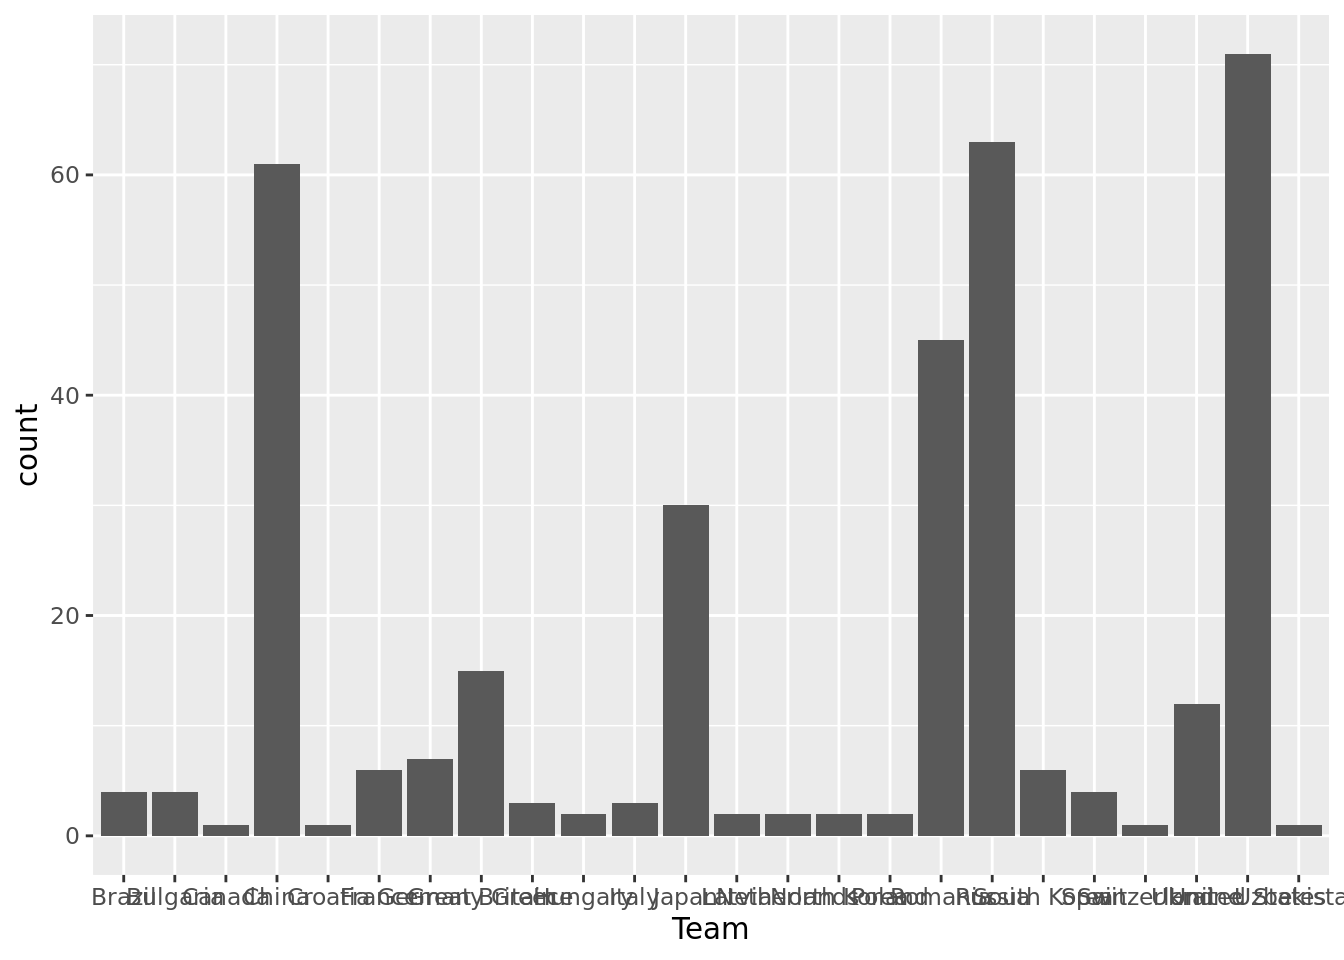
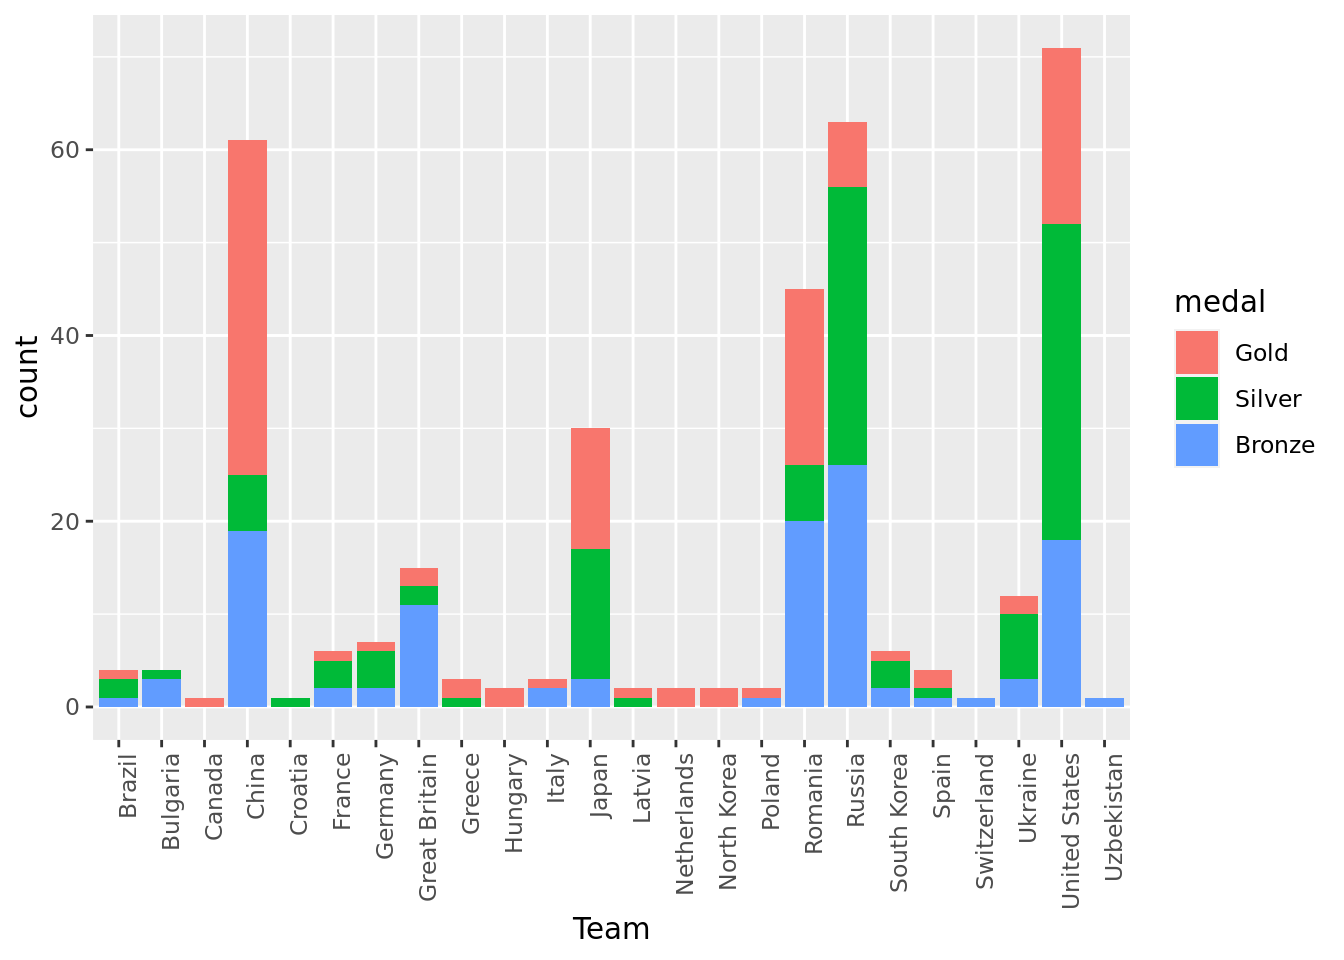
done for the night i think

diff --git a/docs/index.html b/docs/index.html
@@ -255,10 +255,99 @@ $ Medal  &lt;chr&gt; NA, NA, NA, "Gold", NA, NA, NA, NA, NA, NA, NA, NA, NA, NA,
 <div class="cell">
 <div class="sourceCode cell-code" id="cb10"><pre class="sourceCode r code-with-copy"><code class="sourceCode r"><span id="cb10-1"><a href="#cb10-1" aria-hidden="true" tabindex="-1"></a>olympics_new <span class="sc">|&gt;</span> </span>
 <span id="cb10-2"><a href="#cb10-2" aria-hidden="true" tabindex="-1"></a>  <span class="fu">filter</span>(Sport <span class="sc">==</span> <span class="st">"Gymnastics"</span>, medalyesno <span class="sc">==</span> <span class="st">"yes"</span>, Year <span class="sc">&gt;</span> <span class="dv">1999</span>) <span class="sc">|&gt;</span></span>
-<span id="cb10-3"><a href="#cb10-3" aria-hidden="true" tabindex="-1"></a>  <span class="fu">ggplot</span>(<span class="fu">aes</span>(<span class="at">x =</span> Team)) <span class="sc">+</span> </span>
-<span id="cb10-4"><a href="#cb10-4" aria-hidden="true" tabindex="-1"></a>    <span class="fu">geom_bar</span>()</span></code><button title="Copy to Clipboard" class="code-copy-button"><i class="bi"></i></button></pre></div>
+<span id="cb10-3"><a href="#cb10-3" aria-hidden="true" tabindex="-1"></a>  <span class="fu">mutate</span>(<span class="at">medal =</span> <span class="fu">as.factor</span>(Medal), <span class="at">medal =</span> <span class="fu">fct_relevel</span>(Medal, <span class="st">"Gold"</span>, <span class="st">"Silver"</span>, <span class="st">"Bronze"</span>)) <span class="sc">|&gt;</span></span>
+<span id="cb10-4"><a href="#cb10-4" aria-hidden="true" tabindex="-1"></a>  <span class="fu">ggplot</span>(<span class="fu">aes</span>(<span class="at">x =</span> Team, <span class="at">fill =</span> medal)) <span class="sc">+</span> </span>
+<span id="cb10-5"><a href="#cb10-5" aria-hidden="true" tabindex="-1"></a>    <span class="fu">geom_bar</span>() <span class="sc">+</span></span>
+<span id="cb10-6"><a href="#cb10-6" aria-hidden="true" tabindex="-1"></a>  <span class="fu">theme</span>(<span class="at">axis.text.x =</span> <span class="fu">element_text</span>(<span class="at">angle =</span> <span class="dv">90</span>, <span class="at">hjust =</span> <span class="dv">1</span>)) </span></code><button title="Copy to Clipboard" class="code-copy-button"><i class="bi"></i></button></pre></div>
 <div class="cell-output-display">
 <p><img src="index_files/figure-html/unnamed-chunk-3-1.png" class="img-fluid" width="672"></p>
+</div>
+<div class="sourceCode cell-code" id="cb11"><pre class="sourceCode r code-with-copy"><code class="sourceCode r"><span id="cb11-1"><a href="#cb11-1" aria-hidden="true" tabindex="-1"></a>olympics_new <span class="sc">|&gt;</span> </span>
+<span id="cb11-2"><a href="#cb11-2" aria-hidden="true" tabindex="-1"></a>  <span class="fu">filter</span>(Sport <span class="sc">==</span> <span class="st">"Gymnastics"</span>, Medal <span class="sc">==</span> <span class="st">"Gold"</span>, Year <span class="sc">&gt;</span> <span class="dv">1999</span>) <span class="sc">|&gt;</span></span>
+<span id="cb11-3"><a href="#cb11-3" aria-hidden="true" tabindex="-1"></a>  <span class="fu">ggplot</span>(<span class="fu">aes</span>(<span class="at">x =</span> Team)) <span class="sc">+</span> </span>
+<span id="cb11-4"><a href="#cb11-4" aria-hidden="true" tabindex="-1"></a>    <span class="fu">geom_bar</span>() <span class="sc">+</span></span>
+<span id="cb11-5"><a href="#cb11-5" aria-hidden="true" tabindex="-1"></a>  <span class="fu">theme</span>(<span class="at">axis.text.x =</span> <span class="fu">element_text</span>(<span class="at">angle =</span> <span class="dv">90</span>, <span class="at">hjust =</span> <span class="dv">1</span>)) </span></code><button title="Copy to Clipboard" class="code-copy-button"><i class="bi"></i></button></pre></div>
+<div class="cell-output-display">
+<p><img src="index_files/figure-html/unnamed-chunk-3-2.png" class="img-fluid" width="672"></p>
+</div>
+</div>
+<div class="cell">
+
+</div>
+<div class="cell">
+<div class="sourceCode cell-code" id="cb12"><pre class="sourceCode r code-with-copy"><code class="sourceCode r"><span id="cb12-1"><a href="#cb12-1" aria-hidden="true" tabindex="-1"></a>athlete_count_by_medal_status <span class="ot">&lt;-</span> olympics <span class="sc">|&gt;</span></span>
+<span id="cb12-2"><a href="#cb12-2" aria-hidden="true" tabindex="-1"></a>  <span class="fu">summarise</span>(<span class="at">count =</span> <span class="fu">n</span>())</span></code><button title="Copy to Clipboard" class="code-copy-button"><i class="bi"></i></button></pre></div>
+</div>
+<div class="cell">
+<div class="sourceCode cell-code" id="cb13"><pre class="sourceCode r code-with-copy"><code class="sourceCode r"><span id="cb13-1"><a href="#cb13-1" aria-hidden="true" tabindex="-1"></a>olympians_per_team <span class="ot">&lt;-</span> olympics <span class="sc">|&gt;</span></span>
+<span id="cb13-2"><a href="#cb13-2" aria-hidden="true" tabindex="-1"></a>  <span class="fu">group_by</span>(Team) <span class="sc">|&gt;</span></span>
+<span id="cb13-3"><a href="#cb13-3" aria-hidden="true" tabindex="-1"></a>  <span class="fu">summarise</span>(<span class="at">count =</span> <span class="fu">n</span>()) <span class="sc">|&gt;</span></span>
+<span id="cb13-4"><a href="#cb13-4" aria-hidden="true" tabindex="-1"></a>  <span class="fu">arrange</span>(<span class="fu">desc</span>(count))</span>
+<span id="cb13-5"><a href="#cb13-5" aria-hidden="true" tabindex="-1"></a></span>
+<span id="cb13-6"><a href="#cb13-6" aria-hidden="true" tabindex="-1"></a></span>
+<span id="cb13-7"><a href="#cb13-7" aria-hidden="true" tabindex="-1"></a>N <span class="ot">&lt;-</span> <span class="dv">20</span></span>
+<span id="cb13-8"><a href="#cb13-8" aria-hidden="true" tabindex="-1"></a>top_n_teams <span class="ot">&lt;-</span> olympians_per_team[<span class="dv">1</span><span class="sc">:</span>N, ]</span>
+<span id="cb13-9"><a href="#cb13-9" aria-hidden="true" tabindex="-1"></a></span>
+<span id="cb13-10"><a href="#cb13-10" aria-hidden="true" tabindex="-1"></a></span>
+<span id="cb13-11"><a href="#cb13-11" aria-hidden="true" tabindex="-1"></a><span class="fu">ggplot</span>(top_n_teams, <span class="fu">aes</span>(<span class="at">x =</span> Team, <span class="at">y =</span> count)) <span class="sc">+</span></span>
+<span id="cb13-12"><a href="#cb13-12" aria-hidden="true" tabindex="-1"></a>  <span class="fu">geom_col</span>() <span class="sc">+</span> </span>
+<span id="cb13-13"><a href="#cb13-13" aria-hidden="true" tabindex="-1"></a>  <span class="fu">theme</span>(<span class="at">axis.text.x =</span> <span class="fu">element_text</span>(<span class="at">angle =</span> <span class="dv">45</span>, <span class="at">hjust =</span> <span class="dv">1</span>)) <span class="sc">+</span></span>
+<span id="cb13-14"><a href="#cb13-14" aria-hidden="true" tabindex="-1"></a>  <span class="fu">labs</span>(<span class="at">title =</span> <span class="st">"Number of Olympians per Team (Top 20)"</span>,</span>
+<span id="cb13-15"><a href="#cb13-15" aria-hidden="true" tabindex="-1"></a>       <span class="at">x =</span> <span class="st">"Team"</span>,</span>
+<span id="cb13-16"><a href="#cb13-16" aria-hidden="true" tabindex="-1"></a>       <span class="at">y =</span> <span class="st">"Number of Olympians"</span>)</span></code><button title="Copy to Clipboard" class="code-copy-button"><i class="bi"></i></button></pre></div>
+<div class="cell-output-display">
+<p><img src="index_files/figure-html/unnamed-chunk-6-1.png" class="img-fluid" width="672"></p>
+</div>
+</div>
+<div class="cell">
+<div class="sourceCode cell-code" id="cb14"><pre class="sourceCode r code-with-copy"><code class="sourceCode r"><span id="cb14-1"><a href="#cb14-1" aria-hidden="true" tabindex="-1"></a>olympians_per_games <span class="ot">&lt;-</span> olympics <span class="sc">|&gt;</span></span>
+<span id="cb14-2"><a href="#cb14-2" aria-hidden="true" tabindex="-1"></a>  <span class="fu">group_by</span>(Games) <span class="sc">|&gt;</span></span>
+<span id="cb14-3"><a href="#cb14-3" aria-hidden="true" tabindex="-1"></a>  <span class="fu">summarise</span>(<span class="at">count =</span> <span class="fu">n</span>()) <span class="sc">|&gt;</span></span>
+<span id="cb14-4"><a href="#cb14-4" aria-hidden="true" tabindex="-1"></a>  <span class="fu">arrange</span>(Games)</span>
+<span id="cb14-5"><a href="#cb14-5" aria-hidden="true" tabindex="-1"></a></span>
+<span id="cb14-6"><a href="#cb14-6" aria-hidden="true" tabindex="-1"></a><span class="fu">ggplot</span>(olympians_per_games, <span class="fu">aes</span>(<span class="at">x =</span> Games, <span class="at">y =</span> count)) <span class="sc">+</span></span>
+<span id="cb14-7"><a href="#cb14-7" aria-hidden="true" tabindex="-1"></a>  <span class="fu">geom_col</span>() <span class="sc">+</span></span>
+<span id="cb14-8"><a href="#cb14-8" aria-hidden="true" tabindex="-1"></a>  <span class="fu">theme</span>(<span class="at">axis.text.x =</span> <span class="fu">element_text</span>(<span class="at">angle =</span> <span class="dv">90</span>, <span class="at">hjust =</span> <span class="dv">1</span>)) <span class="sc">+</span></span>
+<span id="cb14-9"><a href="#cb14-9" aria-hidden="true" tabindex="-1"></a>  <span class="fu">labs</span>(<span class="at">title =</span> <span class="st">"Number of Olympians per Olympic Games"</span>,</span>
+<span id="cb14-10"><a href="#cb14-10" aria-hidden="true" tabindex="-1"></a>       <span class="at">x =</span> <span class="st">"Olympic Games"</span>,</span>
+<span id="cb14-11"><a href="#cb14-11" aria-hidden="true" tabindex="-1"></a>       <span class="at">y =</span> <span class="st">"Number of Olympians"</span>)</span></code><button title="Copy to Clipboard" class="code-copy-button"><i class="bi"></i></button></pre></div>
+<div class="cell-output-display">
+<p><img src="index_files/figure-html/unnamed-chunk-7-1.png" class="img-fluid" width="672"></p>
+</div>
+</div>
+<div class="cell">
+<div class="sourceCode cell-code" id="cb15"><pre class="sourceCode r code-with-copy"><code class="sourceCode r"><span id="cb15-1"><a href="#cb15-1" aria-hidden="true" tabindex="-1"></a>olympians_per_sport <span class="ot">&lt;-</span> olympics <span class="sc">|&gt;</span></span>
+<span id="cb15-2"><a href="#cb15-2" aria-hidden="true" tabindex="-1"></a>  <span class="fu">group_by</span>(Sport) <span class="sc">|&gt;</span></span>
+<span id="cb15-3"><a href="#cb15-3" aria-hidden="true" tabindex="-1"></a>  <span class="fu">summarise</span>(<span class="at">count =</span> <span class="fu">n</span>()) <span class="sc">|&gt;</span></span>
+<span id="cb15-4"><a href="#cb15-4" aria-hidden="true" tabindex="-1"></a>  <span class="fu">arrange</span>(<span class="fu">desc</span>(count))</span>
+<span id="cb15-5"><a href="#cb15-5" aria-hidden="true" tabindex="-1"></a></span>
+<span id="cb15-6"><a href="#cb15-6" aria-hidden="true" tabindex="-1"></a><span class="fu">ggplot</span>(olympians_per_sport, <span class="fu">aes</span>(<span class="at">x =</span> Sport, <span class="at">y =</span> count)) <span class="sc">+</span></span>
+<span id="cb15-7"><a href="#cb15-7" aria-hidden="true" tabindex="-1"></a>  <span class="fu">geom_col</span>() <span class="sc">+</span></span>
+<span id="cb15-8"><a href="#cb15-8" aria-hidden="true" tabindex="-1"></a>  <span class="fu">theme</span>(<span class="at">axis.text.x =</span> <span class="fu">element_text</span>(<span class="at">angle =</span> <span class="dv">90</span>, <span class="at">hjust =</span> <span class="dv">1</span>)) <span class="sc">+</span></span>
+<span id="cb15-9"><a href="#cb15-9" aria-hidden="true" tabindex="-1"></a>  <span class="fu">labs</span>(<span class="at">title =</span> <span class="st">"Number of Olympians per Sport"</span>,</span>
+<span id="cb15-10"><a href="#cb15-10" aria-hidden="true" tabindex="-1"></a>       <span class="at">x =</span> <span class="st">"Sport"</span>,</span>
+<span id="cb15-11"><a href="#cb15-11" aria-hidden="true" tabindex="-1"></a>       <span class="at">y =</span> <span class="st">"Number of Olympians"</span>)</span></code><button title="Copy to Clipboard" class="code-copy-button"><i class="bi"></i></button></pre></div>
+<div class="cell-output-display">
+<p><img src="index_files/figure-html/unnamed-chunk-8-1.png" class="img-fluid" width="672"></p>
+</div>
+</div>
+<div class="cell">
+<div class="sourceCode cell-code" id="cb16"><pre class="sourceCode r code-with-copy"><code class="sourceCode r"><span id="cb16-1"><a href="#cb16-1" aria-hidden="true" tabindex="-1"></a>N <span class="ot">&lt;-</span> <span class="dv">10</span></span>
+<span id="cb16-2"><a href="#cb16-2" aria-hidden="true" tabindex="-1"></a></span>
+<span id="cb16-3"><a href="#cb16-3" aria-hidden="true" tabindex="-1"></a>olympians_per_sport <span class="ot">&lt;-</span> olympics <span class="sc">|&gt;</span></span>
+<span id="cb16-4"><a href="#cb16-4" aria-hidden="true" tabindex="-1"></a>  <span class="fu">group_by</span>(Sport) <span class="sc">|&gt;</span></span>
+<span id="cb16-5"><a href="#cb16-5" aria-hidden="true" tabindex="-1"></a>  <span class="fu">summarise</span>(<span class="at">count =</span> <span class="fu">n</span>()) <span class="sc">|&gt;</span></span>
+<span id="cb16-6"><a href="#cb16-6" aria-hidden="true" tabindex="-1"></a>  <span class="fu">arrange</span>(<span class="fu">desc</span>(count)) <span class="sc">|&gt;</span></span>
+<span id="cb16-7"><a href="#cb16-7" aria-hidden="true" tabindex="-1"></a>  <span class="fu">slice_head</span>(<span class="at">n =</span> N)</span>
+<span id="cb16-8"><a href="#cb16-8" aria-hidden="true" tabindex="-1"></a></span>
+<span id="cb16-9"><a href="#cb16-9" aria-hidden="true" tabindex="-1"></a><span class="fu">ggplot</span>(olympians_per_sport, <span class="fu">aes</span>(<span class="at">x =</span> Sport, <span class="at">y =</span> count)) <span class="sc">+</span></span>
+<span id="cb16-10"><a href="#cb16-10" aria-hidden="true" tabindex="-1"></a>  <span class="fu">geom_col</span>() <span class="sc">+</span></span>
+<span id="cb16-11"><a href="#cb16-11" aria-hidden="true" tabindex="-1"></a>  <span class="fu">theme</span>(<span class="at">axis.text.x =</span> <span class="fu">element_text</span>(<span class="at">angle =</span> <span class="dv">90</span>, <span class="at">hjust =</span> <span class="dv">1</span>)) <span class="sc">+</span></span>
+<span id="cb16-12"><a href="#cb16-12" aria-hidden="true" tabindex="-1"></a>  <span class="fu">labs</span>(<span class="at">title =</span> <span class="st">"Number of Olympians for the Most Popular Sports (Top 10)"</span>,</span>
+<span id="cb16-13"><a href="#cb16-13" aria-hidden="true" tabindex="-1"></a>       <span class="at">x =</span> <span class="st">"Sport"</span>,</span>
+<span id="cb16-14"><a href="#cb16-14" aria-hidden="true" tabindex="-1"></a>       <span class="at">y =</span> <span class="st">"Number of Olympians"</span>)</span></code><button title="Copy to Clipboard" class="code-copy-button"><i class="bi"></i></button></pre></div>
+<div class="cell-output-display">
+<p><img src="index_files/figure-html/unnamed-chunk-9-1.png" class="img-fluid" width="672"></p>
 </div>
 </div>
 

diff --git a/docs/proposal.html b/docs/proposal.html
@@ -137,7 +137,7 @@ code span.wa { color: #60a0b0; font-weight: bold; font-style: italic; } /* Warni
           <div class="collapse navbar-collapse" id="navbarCollapse">
             <ul class="navbar-nav navbar-nav-scroll me-auto">
   <li class="nav-item">
-    <a class="nav-link" href="./index.html">TEAM NAME</a>
+    <a class="nav-link" href="./index.html">Team 199: Olympics</a>
   </li>  
   <li class="nav-item">
     <a class="nav-link active" href="./proposal.html" aria-current="page">Proposal</a>
@@ -173,7 +173,7 @@ code span.wa { color: #60a0b0; font-weight: bold; font-style: italic; } /* Warni
   <li><a href="#literature" id="toc-literature" class="nav-link" data-scroll-target="#literature">Literature</a></li>
   <li><a href="#glimpse-of-data" id="toc-glimpse-of-data" class="nav-link" data-scroll-target="#glimpse-of-data">Glimpse of data</a></li>
   </ul></li>
-  <li><a href="#data-2" id="toc-data-2" class="nav-link" data-scroll-target="#data-2">Data 2</a>
+  <li><a href="#data-2-test" id="toc-data-2-test" class="nav-link" data-scroll-target="#data-2-test">Data 2 test</a>
   <ul class="collapse">
   <li><a href="#introduction-and-data-1" id="toc-introduction-and-data-1" class="nav-link" data-scroll-target="#introduction-and-data-1">Introduction and data</a></li>
   <li><a href="#research-question-1" id="toc-research-question-1" class="nav-link" data-scroll-target="#research-question-1">Research question</a></li>
@@ -266,8 +266,8 @@ dbl (41): Age.Percent 65 and Older, Age.Percent Under 18 Years, Age.Percent ...
 </div>
 </section>
 </section>
-<section id="data-2" class="level1">
-<h1>Data 2</h1>
+<section id="data-2-test" class="level1">
+<h1>Data 2 test</h1>
 <section id="introduction-and-data-1" class="level2">
 <h2 class="anchored" data-anchor-id="introduction-and-data-1">Introduction and data</h2>
 <ul>

diff --git a/docs/about.html b/docs/about.html
@@ -74,7 +74,7 @@ ul.task-list li input[type="checkbox"] {
           <div class="collapse navbar-collapse" id="navbarCollapse">
             <ul class="navbar-nav navbar-nav-scroll me-auto">
   <li class="nav-item">
-    <a class="nav-link" href="./index.html">TEAM NAME</a>
+    <a class="nav-link" href="./index.html">Team 199: Olympics</a>
   </li>  
   <li class="nav-item">
     <a class="nav-link" href="./proposal.html">Proposal</a>
@@ -123,7 +123,7 @@ ul.task-list li input[type="checkbox"] {
 <p>This project was developed by Team 199 For <a href="https://sta199-s23-2.github.io/">STA 199: Introduction to Data Science</a> at Duke University. The team is comprised of the following team members.</p>
 <ul>
 <li>Team member 1: Luke Francese, Public Policy Studies, class of 2025</li>
-<li>Team member 2: One sentence description of Team member 2 (e.g., year, major, etc.).</li>
+<li>Team member 2: Ruben Mesalles, Political Science, class of 2025</li>
 <li>Team member 3: One sentence description of Team member 3 (e.g., year, major, etc.).</li>
 <li>Team member 4: One sentence description of Team member 4 (e.g., year, major, etc.).</li>
 <li>…</li>
